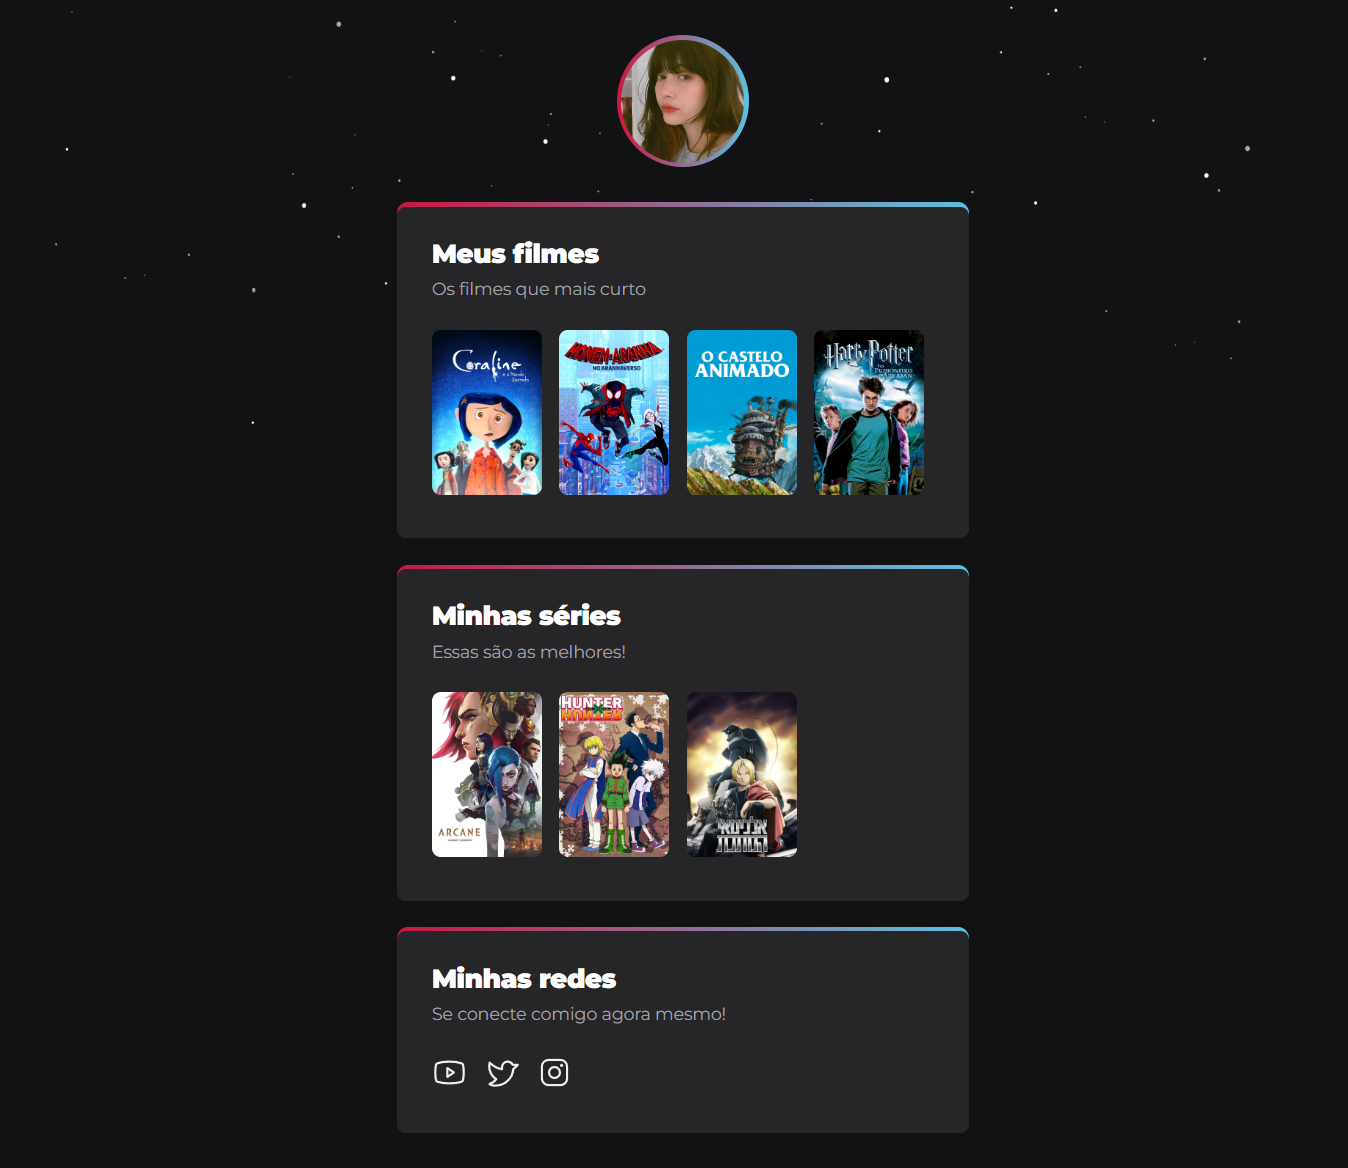
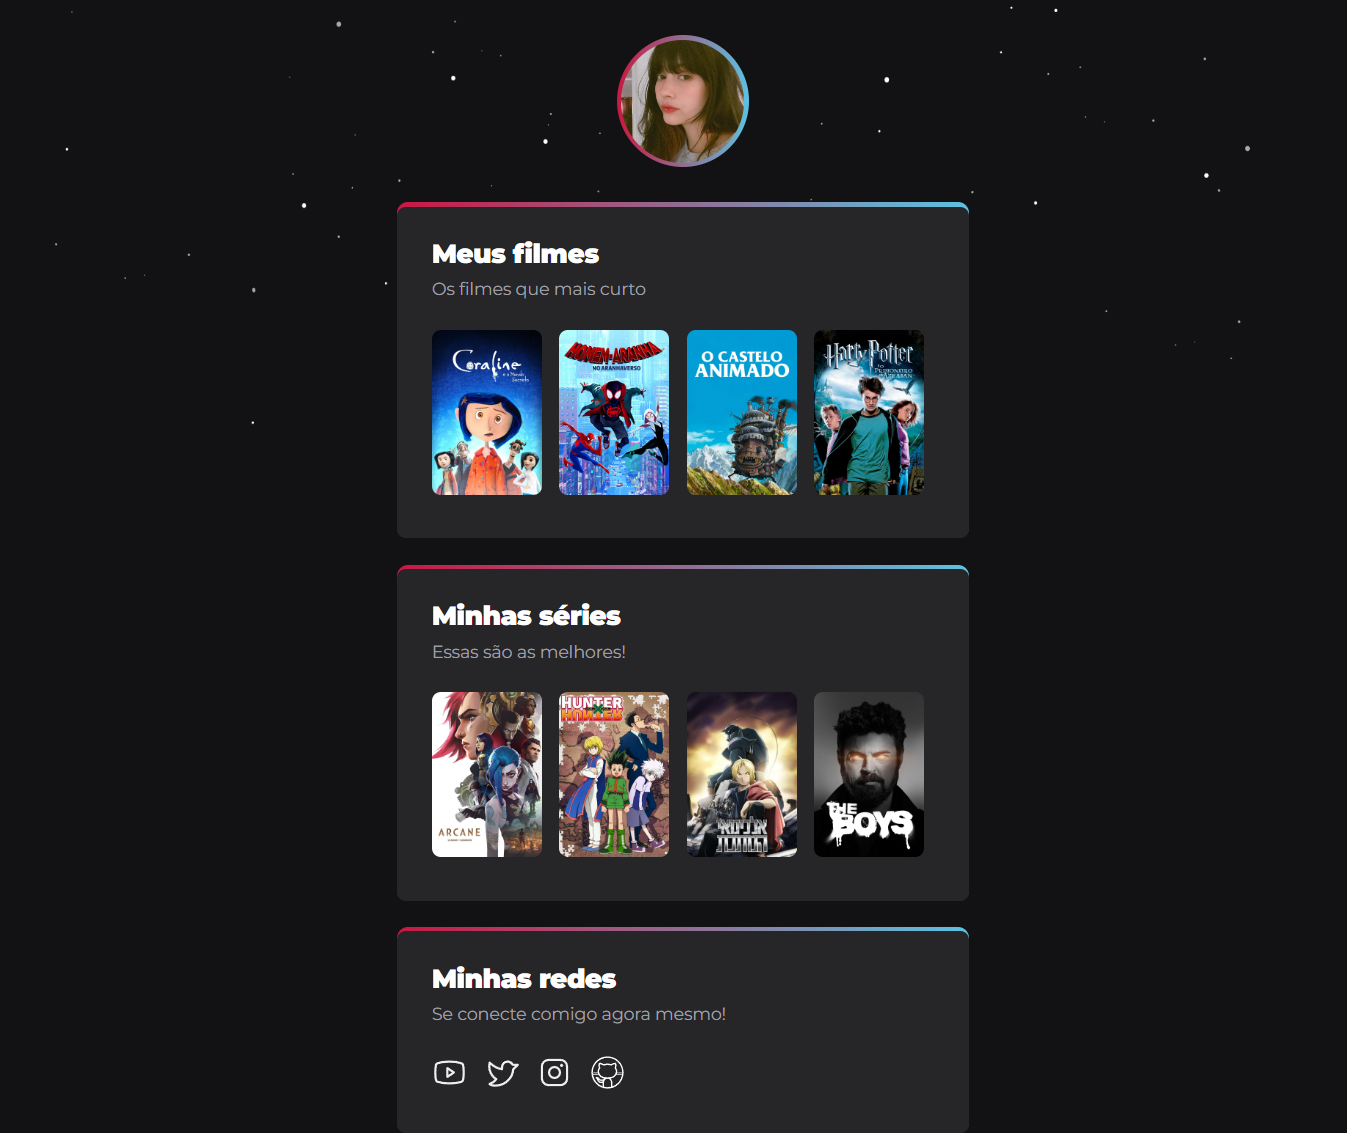
add social media

Changed region(s): [[0.2806, 0.0309, 0.7171, 0.9576]]

diff --git a/index.html b/index.html
@@ -61,7 +61,6 @@
             <img src="https://www.themoviedb.org/t/p/w600_and_h900_bestv2/1HdMUghqlgOIvbsU9ZtO40IPRzl.jpg" alt="Imagem do filme Harry Potter">
             </a>
           </li>
-
           
         </ul>
       </div>
@@ -94,6 +93,14 @@
             target="_blank"
             href="https://www.themoviedb.org/tv/31911-fullmetal-alchemist-brotherhood">
               <img src="https://www.themoviedb.org/t/p/w600_and_h900_bestv2/ionSvkO4hIDRPoW4BO7EjEx8u0q.jpg" alt="Imagem Fullmetal ">
+            </a>
+          </li>
+
+          <li>
+            <a
+            target="_blank"
+            href="https://www.themoviedb.org/tv/76479-the-boys">
+              <img src="https://www.themoviedb.org/t/p/w600_and_h900_bestv2/stTEycfG9928HYGEISBFaG1ngjM.jpg" alt="Imagem The Boys ">
             </a>
           </li>
 
@@ -145,6 +152,30 @@
               
             </a>
           </li>
+
+          <li>
+
+            <a 
+            target="_blank" 
+            href="https://github.com/brunakarina">
+            <svg xmlns="http://www.w3.org/2000/svg" x="0px" y="0px" width="32" height="32"
+            viewBox="0 0 172 172" style=" fill:#000000;">
+            <g fill="none" fill-rule="nonzero" stroke="none" stroke-width="1" stroke-linecap="butt"
+            stroke-linejoin="miter" stroke-miterlimit="10" stroke-dasharray=""
+              stroke-dashoffset="0" font-family="none" font-weight="none" font-size="none"
+            text-anchor="none" style="mix-blend-mode: normal">
+            <path d="M0,172v-172h172v172z" fill="none"></path>
+            <g fill="#ffffff">
+            <path
+            d="M86,6.88c-43.64901,0 -79.12,35.47099 -79.12,79.12c0,43.64901 35.47099,79.12 79.12,79.12c43.64901,0 79.12,-35.47099 79.12,-79.12c0,-43.64901 -35.47099,-79.12 -79.12,-79.12zM86,13.76c39.92923,0 72.24,32.31077 72.24,72.24c0,0.24552 -0.01772,0.48741 -0.02015,0.73235c-2.20027,-0.20309 -4.7425,-0.396 -7.97516,-0.51063c-4.57079,-0.16208 -10.33212,-0.11512 -16.86406,0.20828c0.24222,-1.6868 0.412,-3.39742 0.41656,-5.15328c0.3331,-6.44182 -1.83011,-12.46824 -5.34812,-17.79125c0.84992,-2.93682 1.84695,-6.67312 2.09625,-10.91125c0.28414,-4.83072 -0.13285,-10.18735 -4.0111,-13.80703l-0.99437,-0.92719h-1.35719c-9.22976,0 -15.54738,3.86384 -19.41047,6.92703c-5.57797,-2.15912 -11.85015,-3.48703 -18.77219,-3.48703c-6.9613,0 -13.29379,1.34647 -19.1014,3.50047c-3.8609,-3.06465 -10.18405,-6.94047 -19.42391,-6.94047h-1.35047l-0.99437,0.92047c-3.77776,3.50792 -4.12581,8.71758 -3.89016,13.52485c0.20781,4.23907 1.14707,8.09406 1.98203,11.17328c-3.57748,5.42692 -5.72437,11.60915 -5.72437,17.72406c0,1.76 0.16367,3.47599 0.40312,5.16672c-6.21182,-0.28811 -11.74925,-0.34364 -16.14516,-0.18812c-3.23258,0.11436 -5.77499,0.3056 -7.97516,0.51062c-0.00205,-0.22477 -0.02016,-0.44662 -0.02016,-0.67187c0,-39.92923 32.31077,-72.24 72.24,-72.24zM49.5239,45.17015c6.94049,0.65767 12.16216,3.75687 14.57969,5.90578l1.6125,1.42438l1.98875,-0.81297c5.44019,-2.24008 11.50798,-3.52735 18.29515,-3.52735c6.78718,0 12.85663,1.2937 17.88531,3.49375l2.01562,0.88688l1.6461,-1.46469c2.41836,-2.14965 7.64888,-5.24979 14.59312,-5.90578c0.92329,1.53074 1.7256,3.70766 1.53188,7.00094c-0.23186,3.94128 -1.28611,8.23413 -2.08281,10.78359l-0.51735,1.65953l1.02797,1.40422c3.40379,4.64154 5.13929,9.66479 4.84422,14.9761l-0.00672,0.09406v0.09406c0,8.58437 -3.09122,15.45499 -9.675,20.54594c-6.58362,5.09097 -16.97718,8.3514 -31.605,8.3514c-14.62782,0 -25.02794,-3.26046 -31.61172,-8.3514c-6.58379,-5.09095 -9.66828,-11.96157 -9.66828,-20.54594c0,-5.03859 1.81947,-10.58147 5.18015,-15.16422l1.00781,-1.37062l-0.48375,-1.63266c-0.79714,-2.71029 -1.77425,-7.10104 -1.9686,-11.06578c-0.16165,-3.29766 0.61883,-5.382 1.41094,-6.77922zM30.56359,89.5139c2.43102,0.03105 5.21743,0.16227 8.00875,0.30235c0.2667,1.07258 0.5708,2.12772 0.94062,3.15781c-11.3773,0.23993 -19.88869,1.38402 -25.13484,2.365c-0.22181,-1.7212 -0.39849,-3.45659 -0.49719,-5.21375c3.87705,-0.36793 9.34249,-0.70515 16.68266,-0.61141zM141.4364,89.56765c7.33509,-0.09314 12.7985,0.2444 16.67594,0.61141c-0.09858,1.73198 -0.27225,3.44282 -0.49047,5.13984c-5.43362,-0.99682 -14.17499,-2.1407 -25.84703,-2.32469c0.36225,-1.00973 0.66387,-2.04674 0.92719,-3.09735c3.07921,-0.16505 6.08327,-0.29555 8.73437,-0.32922zM40.97765,96.38719c2.05279,4.11354 4.98596,7.7864 8.86203,10.7836c5.29947,4.09784 12.1891,6.96098 20.59969,8.4925c-1.10033,1.13056 -2.10109,2.37205 -2.98984,3.68187l-0.20828,-0.1814c0.01892,-0.02167 -1.71011,0.84367 -4.29328,1.075c-2.58317,0.23134 -5.76961,0.16125 -8.59328,0.16125c-4.214,0 -6.07012,-1.99104 -9.03672,-5.61687c-1.64275,-2.21408 -3.64546,-4.00711 -5.59,-5.36828c-1.9911,-1.39377 -3.68964,-2.37749 -5.79156,-2.72781l-0.28219,-0.04703h-0.28891c-1.60533,0 -3.15873,0.11624 -4.60906,1.77375c-0.72517,0.82876 -1.22498,2.36306 -0.90031,3.66172c0.32466,1.29866 1.14621,2.09669 1.88125,2.58672c4.70153,3.13435 5.53243,9.33781 8.47906,14.85516c2.75174,5.4831 8.69043,8.08265 14.7611,8.08265h8.94265v16.5214c-24.19073,-8.53876 -42.4335,-29.57754 -47.01781,-55.38265c5.2663,-0.99192 14.08511,-2.18446 26.07547,-2.35156zM130.31687,96.41406c12.25578,0.10491 21.32194,1.29591 26.78766,2.30453c-4.57821,25.81458 -22.82732,46.86176 -47.02453,55.40281v-17.89875c0,-5.45091 -1.79003,-11.46173 -4.90469,-16.47437c-0.94565,-1.5219 -2.05806,-2.96119 -3.29891,-4.25297c7.96435,-1.57338 14.50693,-4.38737 19.5986,-8.32453c3.86767,-2.9907 6.7943,-6.65252 8.84187,-10.75672zM81.52531,117.30265h9.63469c2.7961,0 5.78066,2.2284 8.17,6.07375c2.38934,3.84535 3.87,9.00916 3.87,12.84625v19.94797c-5.51292,1.34434 -11.27016,2.06937 -17.2,2.06937c-5.92984,0 -11.68708,-0.72504 -17.2,-2.06937v-19.94797c0,-3.75215 1.60933,-8.90376 4.1589,-12.76562c2.54958,-3.86186 5.7703,-6.15438 8.56641,-6.15438zM42.34156,121.3675c2.97826,3.08915 6.58392,5.9125 12.01312,5.9125c2.68033,0 6.02586,0.09657 9.20469,-0.18813c0.0113,-0.00101 0.02229,-0.0057 0.0336,-0.00672c-0.41881,1.20401 -0.73129,2.41546 -0.99437,3.63485h-9.62125c-4.24267,0 -7.2399,-1.53276 -8.62016,-4.29328l-0.02687,-0.04703l-0.02016,-0.04031c-0.56554,-1.05048 -1.30794,-3.15094 -1.96859,-4.97187z">
+            </path>
+              </g>
+              </g>
+            </svg>
+
+            </a>
+
+        </li>
 
           
         </ul>

diff --git a/styles.css b/styles.css
@@ -29,7 +29,7 @@
   header div {
     width: 120px;
     margin: auto;
-    background-image: linear-gradient(90deg, #C91842 0%, #5CC2E2 100%), linear-gradient(0deg, #262629, #262629);
+    background-image: linear-gradient(90deg, #C91842 0%, #5CC2E2 100%);
     border-radius: 50%;
     display: flex;
     padding: 4px;
@@ -58,8 +58,7 @@
 
   section {
     color: white;
-    background-image: linear-gradient(90deg, #C91842 0%, #5CC2E2 100%),
-    linear-gradient(0deg, #262629, #262629);
+    background-image: linear-gradient(90deg, #C91842 0%, #5CC2E2 100%);
     padding-top: 4px;
     border-radius: 10px;
   }
